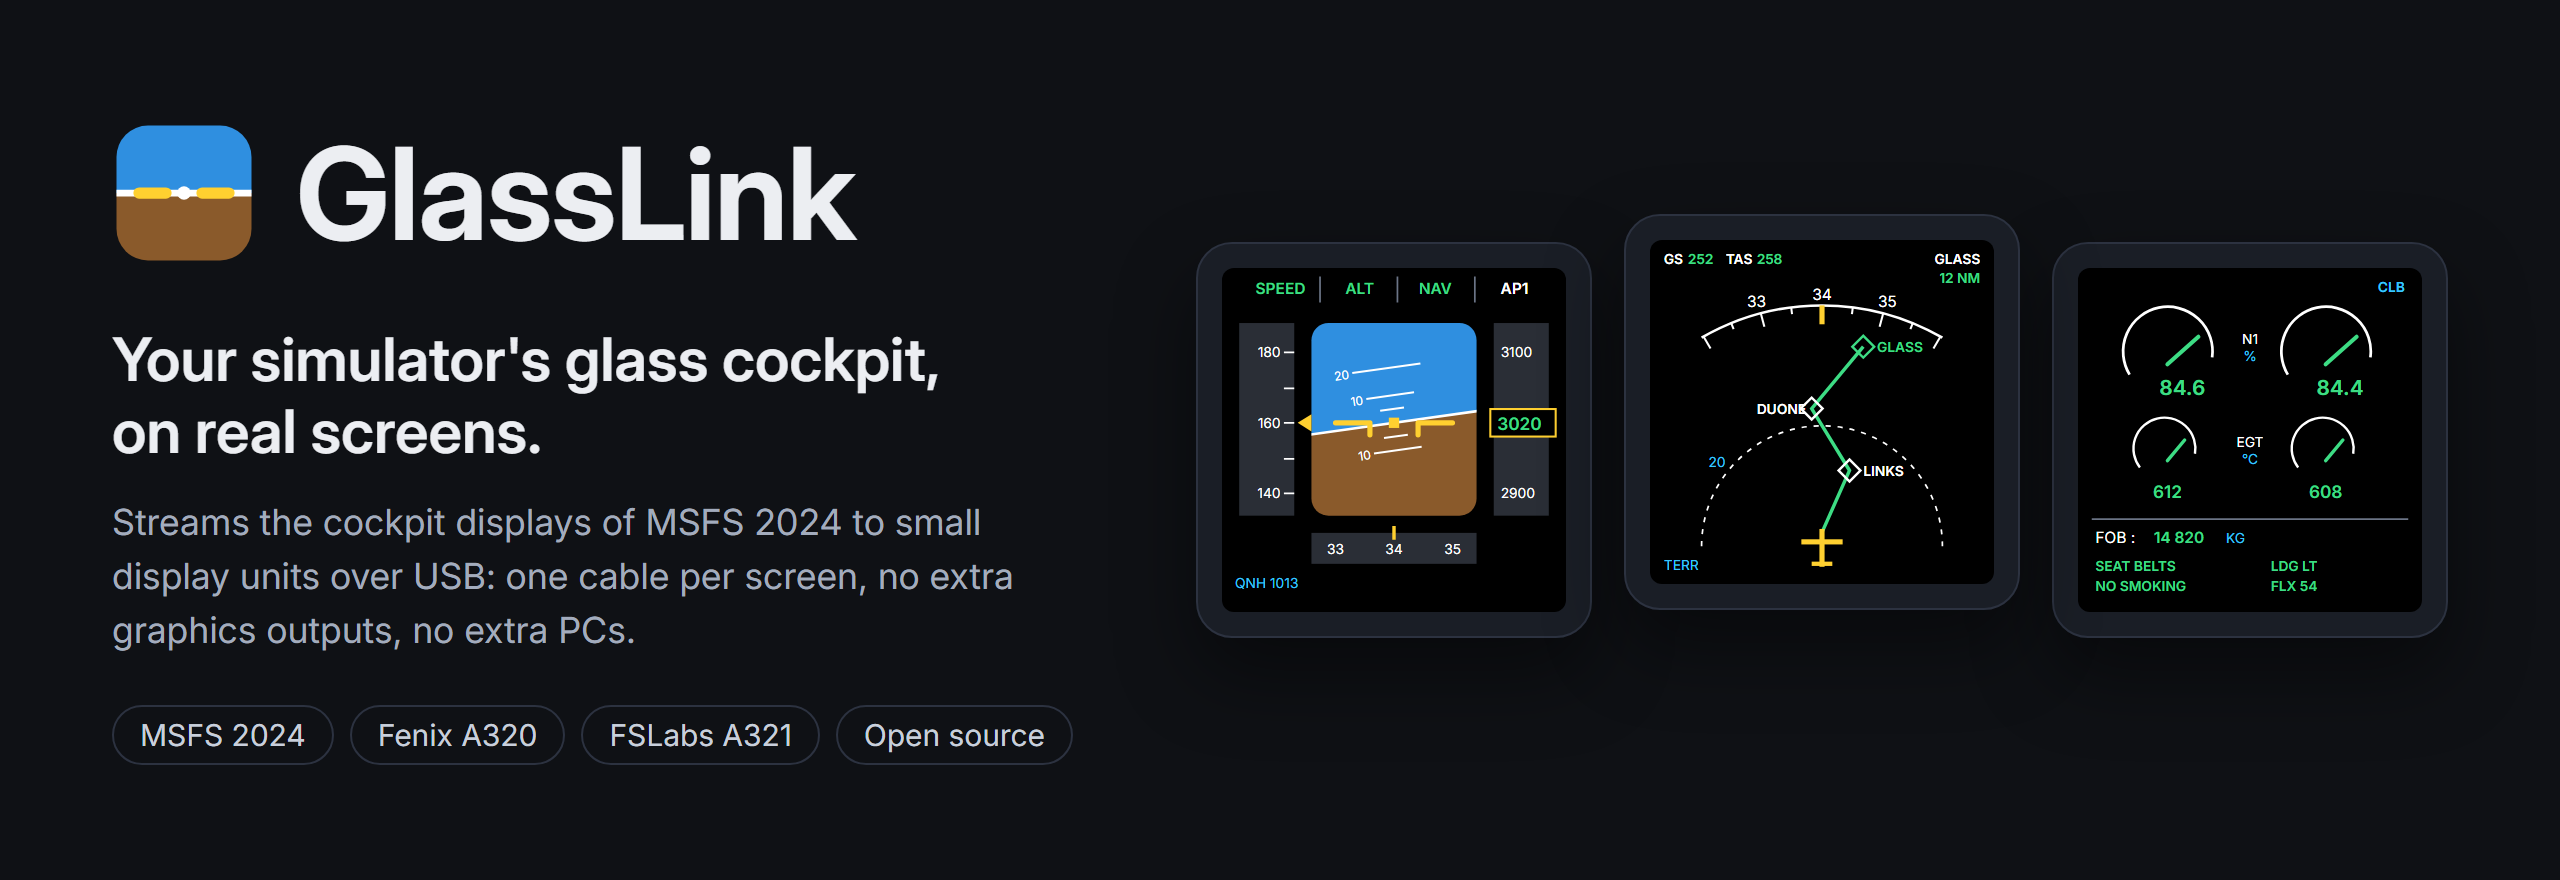
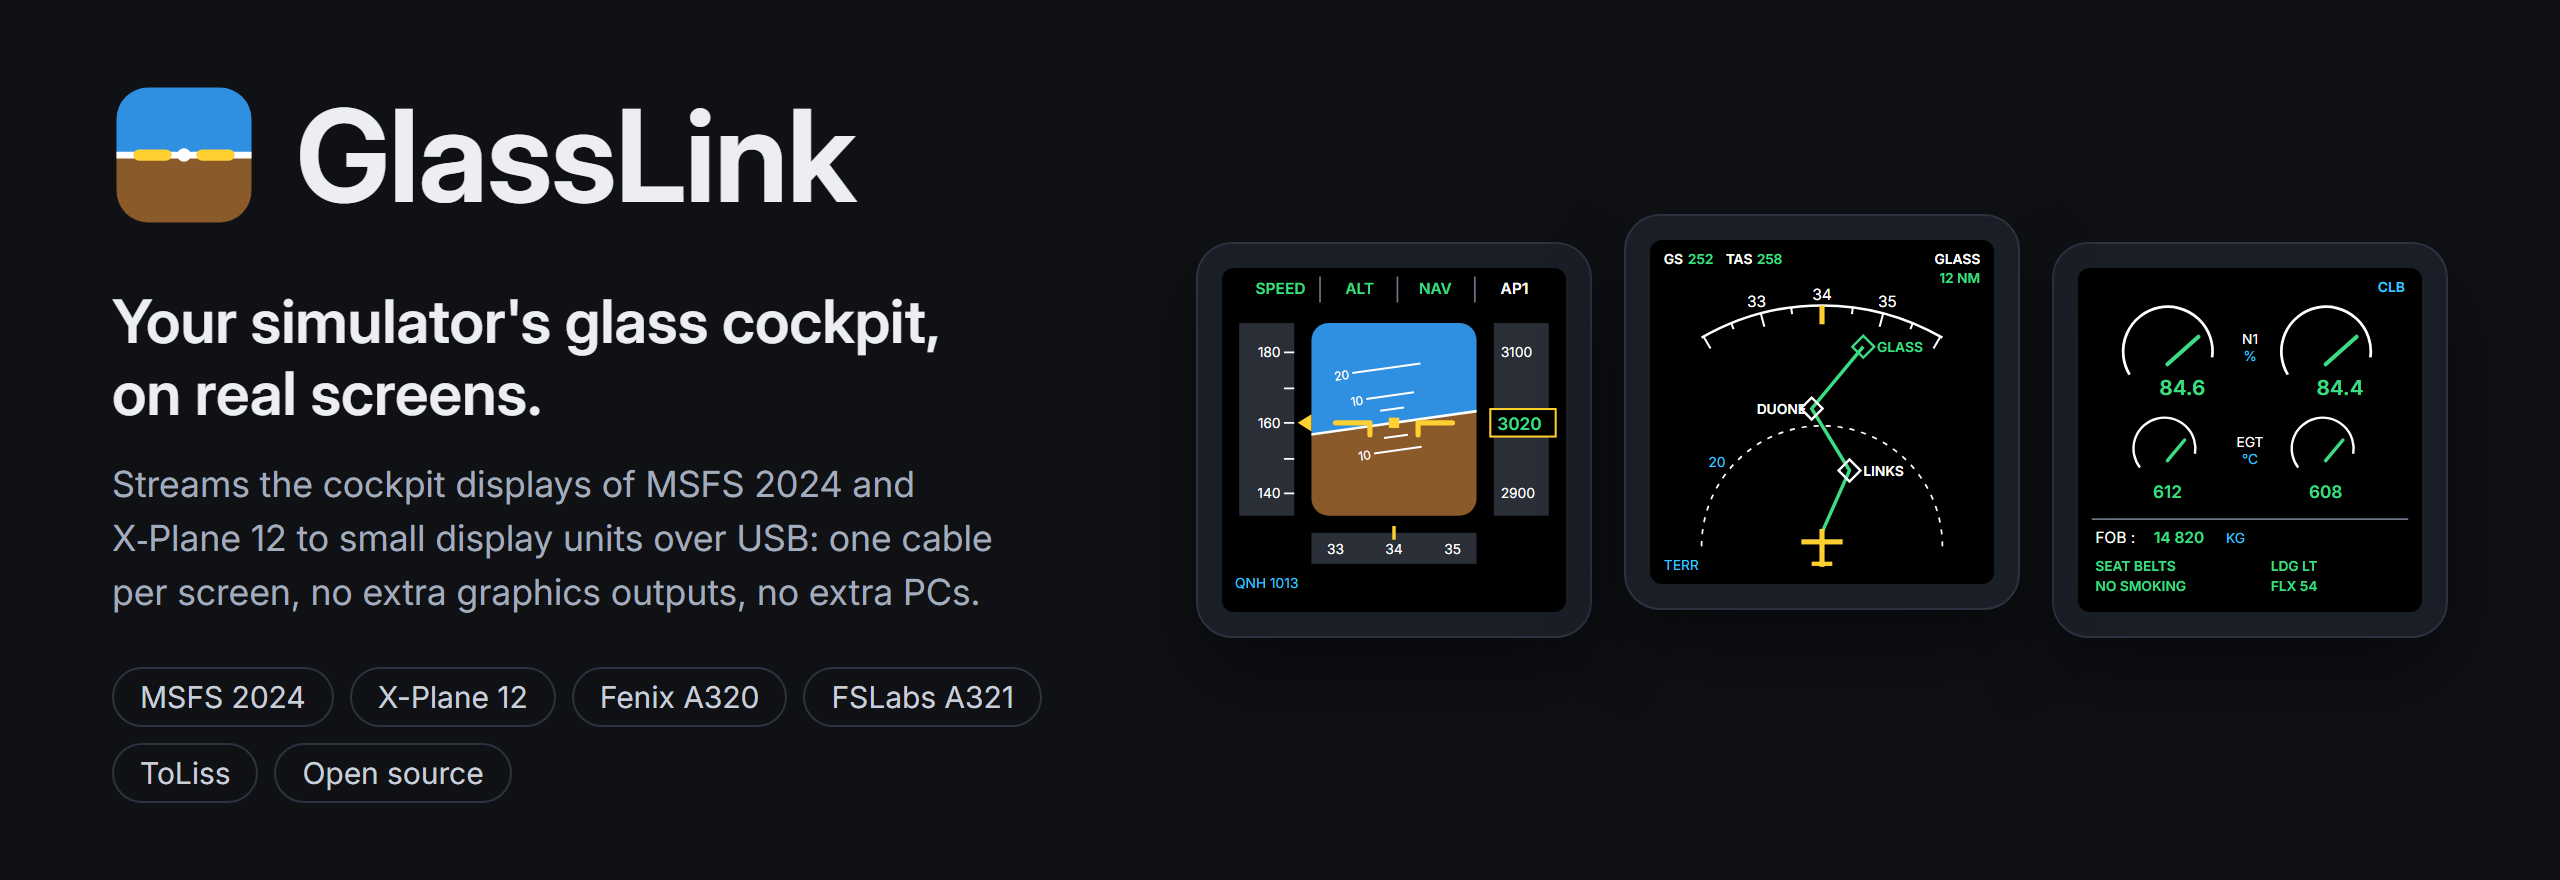
Release 0.9.0
X-Plane 12 with the ToLiss, the MSFS pop-out for aircraft still starting up, README pictures. The README leads with the two sims; the banner names X-Plane and the ToLiss; troubleshooting for ToLiss pop-outs. DU firmware unchanged (0.7.0).

Changed region(s): [[0.0312, 0.3375, 0.4062, 0.7364], [0.0312, 0.092, 0.3438, 0.3068], [0.0312, 0.767, 0.4062, 0.9205]]

diff --git a/docs/images/src/banner.html b/docs/images/src/banner.html
@@ -32,9 +32,9 @@
     <span>GlassLink</span>
   </div>
   <div class="tagline">Your simulator's glass cockpit,<br>on real screens.</div>
-  <div class="sub">Streams the cockpit displays of MSFS 2024 to small display units over USB: one cable per screen, no extra
-    graphics outputs, no extra PCs.</div>
-  <div class="pills"><span>MSFS 2024</span><span>Fenix A320</span><span>FSLabs A321</span><span>Open source</span></div>
+  <div class="sub">Streams the cockpit displays of MSFS 2024 and X&#8209;Plane 12 to small display units over USB: one cable
+    per screen, no extra graphics outputs, no extra PCs.</div>
+  <div class="pills"><span>MSFS 2024</span><span>X-Plane 12</span><span>Fenix A320</span><span>FSLabs A321</span><span>ToLiss</span><span>Open source</span></div>
 </div>
 
 <div class="dus">

diff --git a/README.md b/README.md
@@ -23,19 +23,19 @@ the rendered pop-out windows gives an exact copy for any aircraft.
 
 ## What it does
 
-- **Pops the displays out by itself** once you are in the cockpit: camera reset, Right-Alt + click on each display,
-  windows renamed, sized to the DU and parked off-screen, then your own camera view back. Up to six displays
-  (captain and first officer side), dark ones too: a cold and dark cockpit at the gate pops out like a ready one. New aircraft: press **Learn** on a display and click it once.
-  In **X-Plane 12** the ToLiss opens its displays by command, so nothing moves: GlassLink asks it for the pop-outs
-  over X-Plane's own web API, keeps them out of Alt+Tab and the taskbar, and crops X-Plane's frame off.
+- **MSFS 2024 and X-Plane 12**: the Fenix A320 and the FSLabs A321 in MSFS, the ToLiss A321 and A339 (and the rest of
+  the ToLiss family) in X-Plane, built in. GlassLink sees which sim runs; the displays and the DUs' assignments are
+  the same in both, so a DU that shows the captain's PFD shows it in either sim.
+- **Pops the displays out by itself**, up to six (captain and first officer side), dark ones too: a cold and dark
+  cockpit at the gate pops out like a ready one. In MSFS: camera reset, Right-Alt + click on each display, then your
+  own camera view back; a new aircraft needs **Learn** once per display. In X-Plane the ToLiss opens its displays by
+  command, so nothing moves at all. Either way the windows are sized to the DU and parked off-screen.
 - **Any number of DUs**, each assigned to a display on the status page; a DU is known by its serial number, so any
   unit can take any place in the cockpit.
 - **Several displays on one DU**: for a monitor behind a MIP with two cut-outs, place the displays in a layout on the
   status page and line them up with test cards. The DMC sends them as one picture as wide as the screen, which the
   DU draws straight into its frame buffer.
 - **HDMI modes** per DU: 768x768 (the square 8.8" panels), 1024x768, 800x600, 1280x720, 1920x1080 at 30 Hz.
-- **Brightness follows the cockpit knobs** (read through SimConnect), times a trim per DU; the DU dims in its JPEG
-  decoder, at no cost. Aircraft that dim their pop-outs themselves (the FSLabs, the ToLiss) are left to it.
 - **Updates itself** from GitHub Releases on your click (checked against the release's checksums), and **updates
   the DUs' firmware** over USB from the status page, with rollback if a new image does not come up.
 - **Status page** in its own window and on any device in the LAN (read-only from other devices unless allowed),
@@ -69,7 +69,7 @@ what helps.
 - Nothing else for a release: it includes Microsoft's `SimConnect.dll` (unmodified, see
   [THIRD-PARTY-NOTICES.md](THIRD-PARTY-NOTICES.md)). A checkout does not: put a copy in `dotnet\lib\` (ignored by
   git) or `%LOCALAPPDATA%\GlassLink\`, or install the MSFS SDK. Without it the DMC still streams, but pops nothing
-  out and does not follow the brightness knobs.
+  out in MSFS and does not follow the Fenix's brightness knobs. X-Plane does not need it.
 - Graphics driver: no driver-level frame generation for the sim (AMD Fluid Motion Frames / HYPR-RX, NVIDIA Smooth
   Motion). It leaves pop-out windows with about 13 frames a second. See [Troubleshooting](docs/TROUBLESHOOTING.md).
 - DUs: see [Hardware](docs/hardware.md).
@@ -119,7 +119,7 @@ the same way: [pi/SETUP.md](pi/SETUP.md). Allow the port in the firewall when th
 | `displays.<name>.crop`, `tool_window` | a frame the window draws around the display, cut off (the window is made that much larger), and keeping the window out of Alt+Tab and the taskbar. The built-in X-Plane profiles set both for their pop-outs themselves |
 | `modules.<serial>` | per DU: `display`, `label`, `brightness` (trim), `screen` (HDMI mode 0-4), `tiles` (several displays: `{display: {x, y}}`); `rotation` is stored but not drawn by the DU yet |
 | `popout` | `auto`, `aircraft`, `zoom`, `grace_s`, `retry_s`, `camera_restore_key` (e.g. `shift+f1`), `profiles` |
-| `brightness` | `enabled`, `source` |
+| `brightness` | `enabled`, `source`: the DUs follow the cockpit's display brightness knobs where the pop-outs do not dim themselves (the Fenix, through SimConnect); the FSLabs and the ToLiss dim their own |
 | `updates` | `check` (default true): look for a newer GlassLink on GitHub every six hours |
 
 ## HTTP API

diff --git a/docs/TROUBLESHOOTING.md b/docs/TROUBLESHOOTING.md
@@ -64,12 +64,25 @@ hand or by another tool do not have that mark; the Setup tab lists them and can 
 The display is already popped out somewhere, often off-screen from an earlier session: the sim opens each display
 once. The Setup tab shows "pop-out windows not made by GlassLink" with a button to close them.
 
+## X-Plane: a ToLiss display does not get a window
+
+- The status page says "open inside X-Plane, not as a window of its own": the popup is open, but inside X-Plane's
+  screen. Pop it out once with the button at the right end of its title bar (the red dot on the left closes it).
+  With the ISCS options "Use popout windows for popups" and "Save popup config on quit" on (ToLiss ISCS, Settings
+  tab, "User interface"; each ToLiss aircraft has its own), the aircraft remembers it and GlassLink opens it as a
+  window from then on.
+- The status page says "Sim not running" while X-Plane runs: GlassLink talks to X-Plane through its web API
+  (`localhost:8086`), which needs X-Plane 12.1.4 or later and is switched off by X-Plane's network setting "Disable
+  incoming traffic" and by the command-line option `--no_web_server`.
+- A close message sent to an X-Plane pop-out by another program (a window tool, a script) makes X-Plane quit at once.
+  GlassLink's "Close window" closes a ToLiss pop-out with the aircraft's own command instead.
+
 ## The pop-outs do not dim with the cockpit knobs
 
 In current sim and Fenix versions a pop-out is only on or off under the brightness knob, never dimmed; GlassLink
 reads the knobs over SimConnect and dims the DU. Exception: with the Fenix EFB setting *Home Cockpit Mode* on, the
 pop-outs do dim themselves, and GlassLink stands down ("dimmed by the aircraft" on the System tab). The FSLabs always
-dims its pop-outs itself, so GlassLink never dims for it.
+dims its pop-outs itself, so GlassLink never dims for it, and so does the ToLiss in X-Plane.
 
 ## Blue screens or sim crashes while testing
 

diff --git a/CHANGELOG.md b/CHANGELOG.md
@@ -17,6 +17,12 @@ Versions follow [Semantic Versioning](https://semver.org/) with one version for 
 
 ## [Unreleased]
 
+## [0.9.0] - 2026-10-02
+
+In short: X-Plane 12 with the ToLiss joins MSFS 2024: its displays pop out by command, without moving the camera, and
+the DUs keep their assignments in either sim. The MSFS pop-out copes better with aircraft that are still starting up
+or cold and dark, and the README has pictures. The DU firmware is unchanged (0.7.0): the DUs need no update.
+
 ### Added
 - **X-Plane 12 with the ToLiss A321** (and the rest of the ToLiss family by its folder name): the six displays pop
   out by themselves, without moving the camera or clicking in the cockpit. GlassLink talks to X-Plane through its own
@@ -35,8 +41,9 @@ Versions follow [Semantic Versioning](https://semver.org/) with one version for 
 ### Changed
 - The README has pictures: a banner, a "how it works" diagram and the DU's own screens, made from HTML sources in
   `docs/images/src/` by `tools/render-images.ps1` (also one for viewing a display on a phone, tablet or Raspberry Pi),
-  and screenshots of the status page's Displays, Display units and
-  Setup tabs.
+  and screenshots of the status page's Displays, Display units and Setup tabs. "What it does" leads with the two
+  sims; the brightness link (the Fenix's knobs) is no longer listed as a main feature.
+- Troubleshooting: what to do when a ToLiss display does not get a window in X-Plane.
 - The top bar and the tray name the sim that runs: "MSFS: Fenix A320…", "X-Plane: ToLiSs A321…"; "Sim not running"
   while there is none.
 
